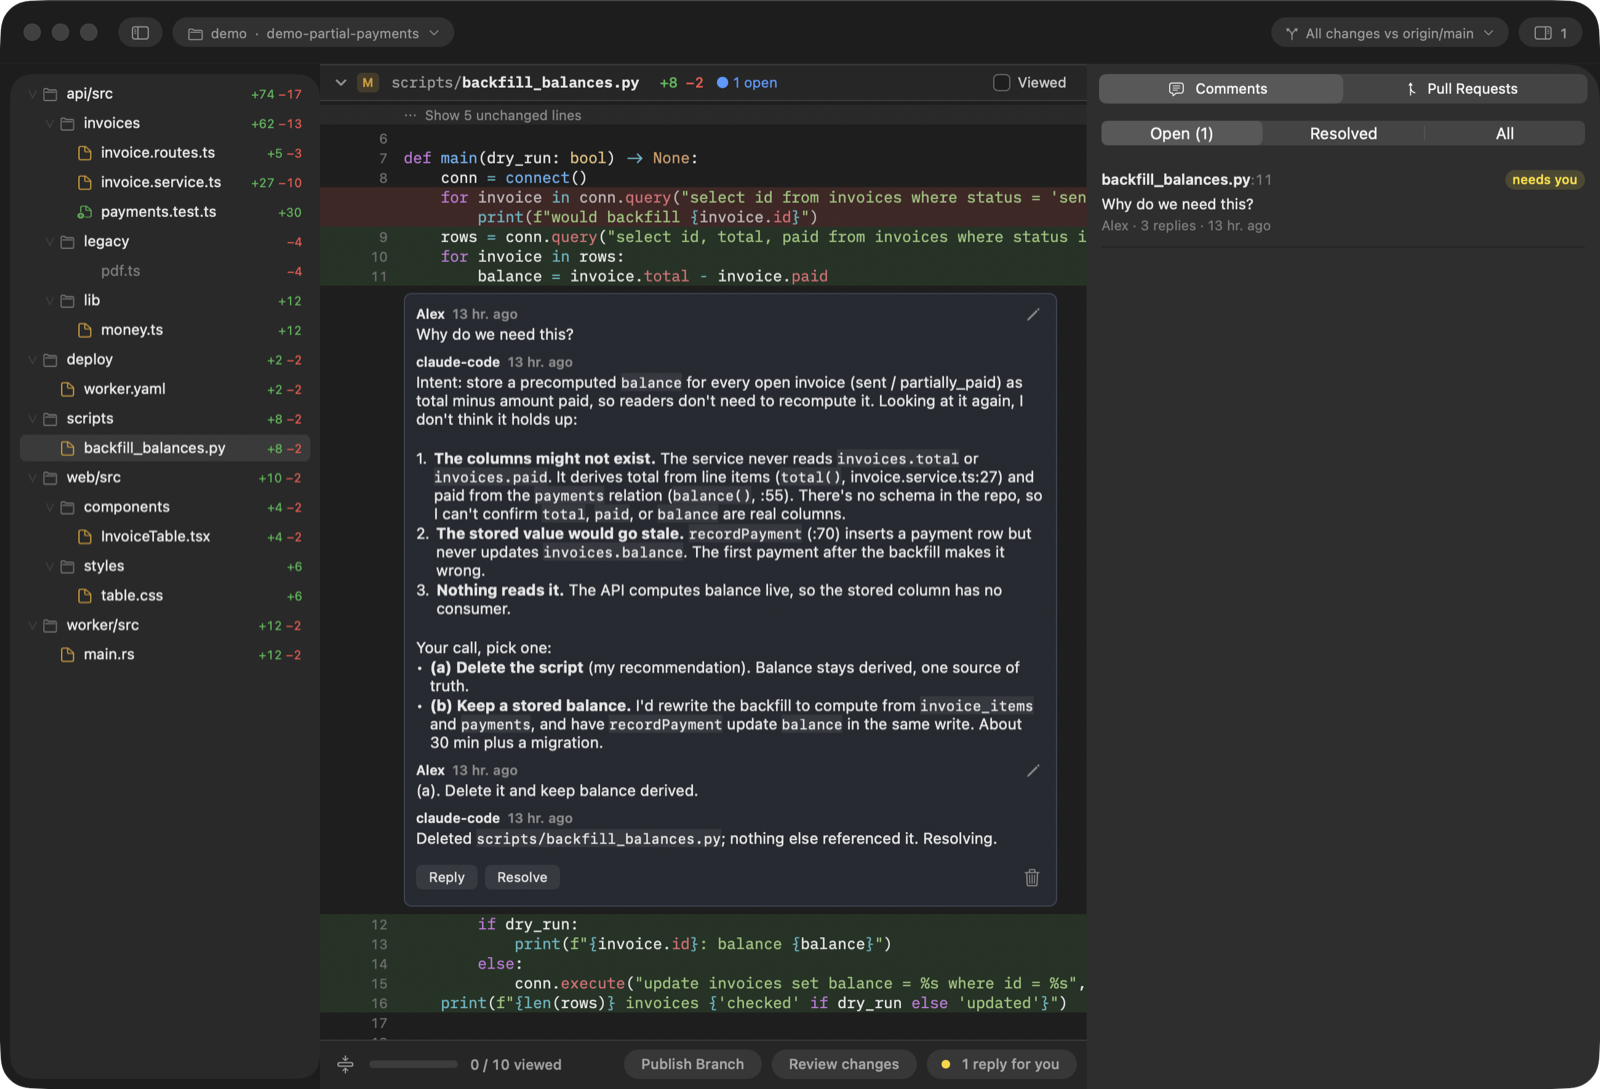
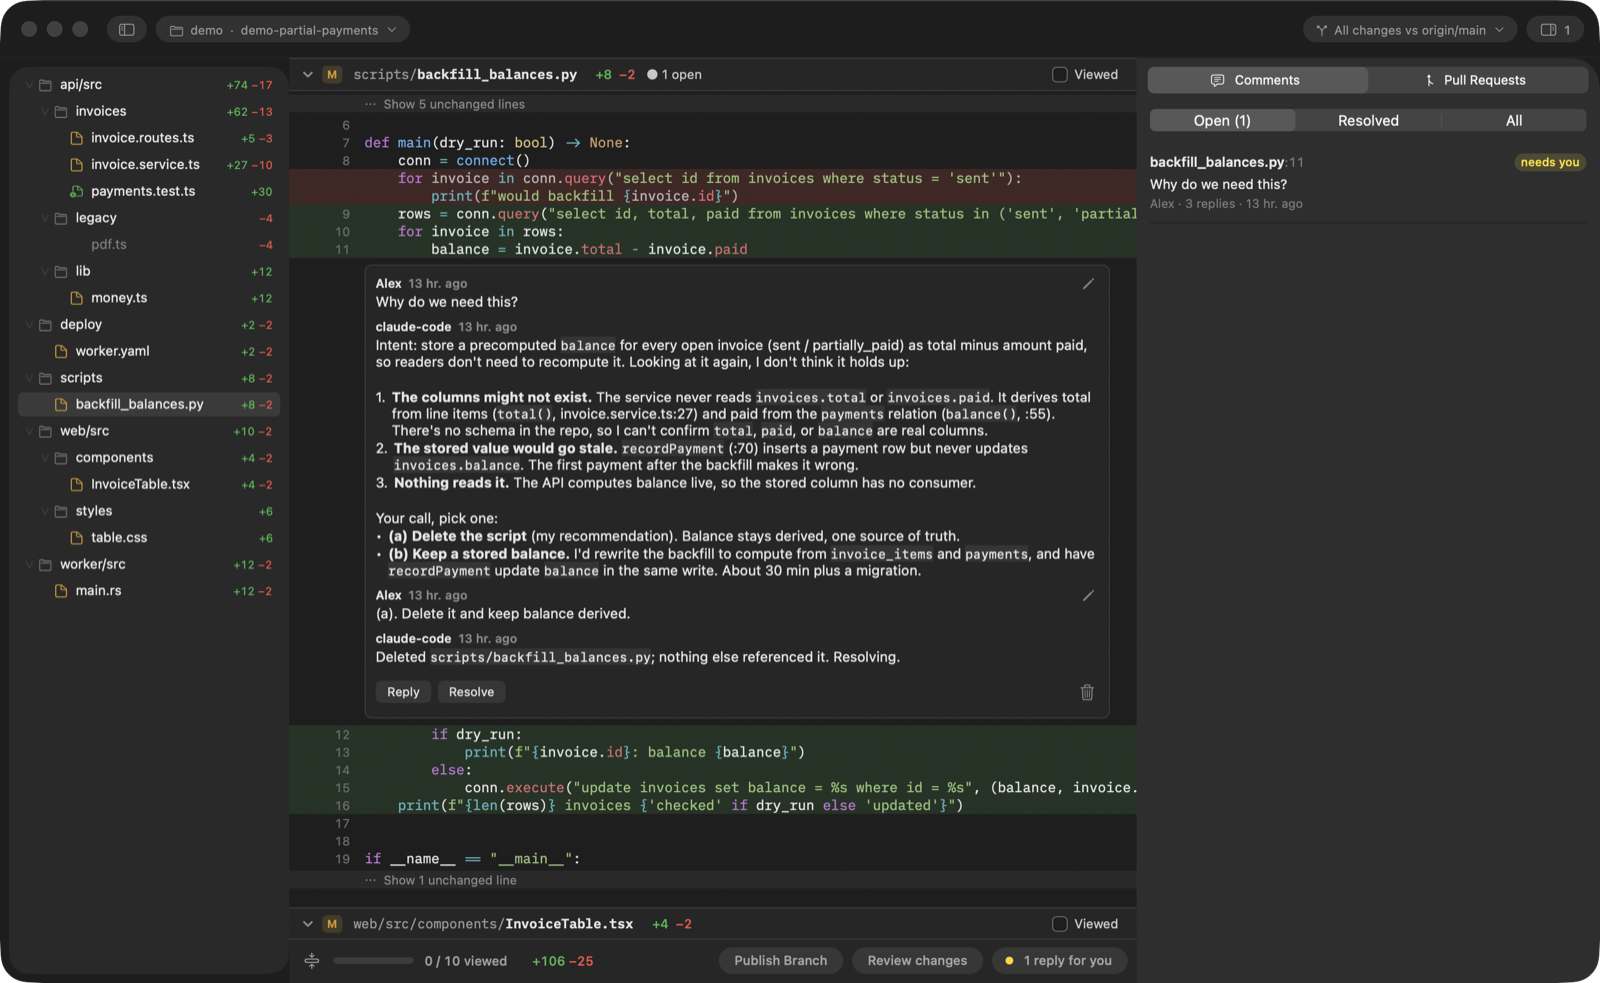
No more blue: the Onramp themes' accent, caret and comment bubbles are neutral; checkboxes and the + button use graphite; links are underlined
Claude-Session: https://claude.ai/code/session_01DQ2WSZBLGhGHLKwcV4v51r

diff --git a/app/Sources/onramp/Theme.swift b/app/Sources/onramp/Theme.swift
@@ -67,8 +67,8 @@ struct Theme: Codable {
         "added_background": "#2ea04329", "deleted_background": "#f8514929", "deleted_text": "#e6e6e6bf",
         "fold_background": "#ffffff0d", "fold_text": "#8b8b8b",
         "header_background": "#262626", "header_text": "#e6e6e6", "separator": "#ffffff1a",
-        "caret": "#4c9aff", "current_line": "#ffffff0a", "hover": "#ffffff09",
-        "comment_background": "#262a31", "comment_border": "#3d4452", "accent": "#4c9aff",
+        "caret": "#e6e6e6", "current_line": "#ffffff0a", "hover": "#ffffff09",
+        "comment_background": "#262626", "comment_border": "#3a3a3a", "accent": "#c8c8c8",
         "added_accent": "#3fb950", "deleted_accent": "#f85149", "modified_accent": "#d29922",
     ], syntax: [ // One Dark
         "keyword": "#c678dd", "string": "#98c379", "string.special": "#56b6c2", "escape": "#56b6c2",
@@ -84,8 +84,8 @@ struct Theme: Codable {
         "added_background": "#1a7f3724", "deleted_background": "#cf222e1f", "deleted_text": "#1f2328b3",
         "fold_background": "#f6f8fa", "fold_text": "#57606a",
         "header_background": "#f6f8fa", "header_text": "#1f2328", "separator": "#d0d7de",
-        "caret": "#0969da", "current_line": "#0000000a", "hover": "#0000000a",
-        "comment_background": "#f6f8fa", "comment_border": "#d0d7de", "accent": "#0969da",
+        "caret": "#1f2328", "current_line": "#0000000a", "hover": "#0000000a",
+        "comment_background": "#f6f6f6", "comment_border": "#d8d8d8", "accent": "#3b3f45",
         "added_accent": "#1a7f37", "deleted_accent": "#cf222e", "modified_accent": "#9a6700",
     ], syntax: [ // One Light
         "keyword": "#a626a4", "string": "#50a14f", "string.special": "#0184bc", "escape": "#0184bc",

diff --git a/app/Sources/onramp/ReviewView.swift b/app/Sources/onramp/ReviewView.swift
@@ -631,11 +631,11 @@ final class ReviewView: NSView, NSPopoverDelegate {
         let running = runStates.filter { if case .running = $0.1 { return true } else { return false } }.map(\.0)
         let finished = runStates.compactMap { t, s -> (AgentRunner.Target, Bool)? in if case let .finished(_, ok) = s { return (t, ok) } else { return nil } }
         if !running.isEmpty {
-            color = .controlAccentColor; pulsing = true
+            color = DiffStyle.accent; pulsing = true
             label = running.count == 1 ? "\(running[0].title) working…" : "\(running.count) agents working…"
             tip = running.map { "\($0.title) is working on your review" }.joined(separator: "\n")
         } else if !working.isEmpty {
-            color = .controlAccentColor; pulsing = true
+            color = DiffStyle.accent; pulsing = true
             label = working.count == 1 ? "\(working[0]) working…" : "\(working.count) agents working…"
             tip = working.map { a in "\(a): \(claims.filter { $0.agent == a }.count) comment(s)" }.joined(separator: "\n")
         } else if waiting > 0 {

diff --git a/app/Sources/onramp/DiffEditor.swift b/app/Sources/onramp/DiffEditor.swift
@@ -35,12 +35,12 @@ enum DiffStyle {
     nonisolated(unsafe) static var headerBackground = NSColor.windowBackgroundColor
     nonisolated(unsafe) static var headerText = NSColor.labelColor
     nonisolated(unsafe) static var separator = NSColor.separatorColor
-    nonisolated(unsafe) static var caret = NSColor.controlAccentColor
+    nonisolated(unsafe) static var caret = NSColor.textColor
     nonisolated(unsafe) static var currentLine = NSColor.clear
     nonisolated(unsafe) static var hover = NSColor.clear
     nonisolated(unsafe) static var commentBackground = NSColor.controlBackgroundColor
     nonisolated(unsafe) static var commentBorder = NSColor.separatorColor
-    nonisolated(unsafe) static var accent = NSColor.controlAccentColor
+    nonisolated(unsafe) static var accent = NSColor.labelColor
     /// Selected rows and segments: a neutral graphite wash, not the system blue.
     nonisolated(unsafe) static var selection = NSColor(name: "onramp.selection") {
         $0.bestMatch(from: [.darkAqua, .aqua]) == .darkAqua ? NSColor(white: 1, alpha: 0.13) : NSColor(white: 0, alpha: 0.085)

diff --git a/app/Sources/onramp/FileHeader.swift b/app/Sources/onramp/FileHeader.swift
@@ -101,7 +101,7 @@ enum FileHeader {
         let box = CGRect(x: rect.minX, y: mid - checkbox / 2, width: checkbox, height: checkbox)
         let path = NSBezierPath(roundedRect: box.insetBy(dx: 0.5, dy: 0.5), xRadius: 3.5, yRadius: 3.5)
         if checked {
-            DiffStyle.accent.setFill()
+            DiffStyle.primaryButton.setFill() // graphite: the white tick reads on it in any theme
             path.fill()
             let tick = NSBezierPath()
             tick.move(to: NSPoint(x: box.minX + 3.5, y: box.midY + 0.5))

diff --git a/app/Sources/onramp/CommentViews.swift b/app/Sources/onramp/CommentViews.swift
@@ -515,6 +515,7 @@ enum CommentMarkdown {
             if let link = run.link {
                 attrs[.link] = link
                 attrs[.foregroundColor] = DiffStyle.accent
+                attrs[.underlineStyle] = NSUnderlineStyle.single.rawValue // a link without relying on colour
             }
             out.append(NSAttributedString(string: text, attributes: attrs))
         }

diff --git a/app/Sources/onramp/HoverOverlay.swift b/app/Sources/onramp/HoverOverlay.swift
@@ -17,7 +17,7 @@ final class HoverOverlay: NSView {
         DiffStyle.hover.setFill()
         bounds.fill()
         let r = plusRect
-        DiffStyle.accent.setFill()
+        DiffStyle.primaryButton.setFill()
         NSBezierPath(roundedRect: r, xRadius: 4, yRadius: 4).fill()
         let plus = NSBezierPath()
         let inset: CGFloat = 4
